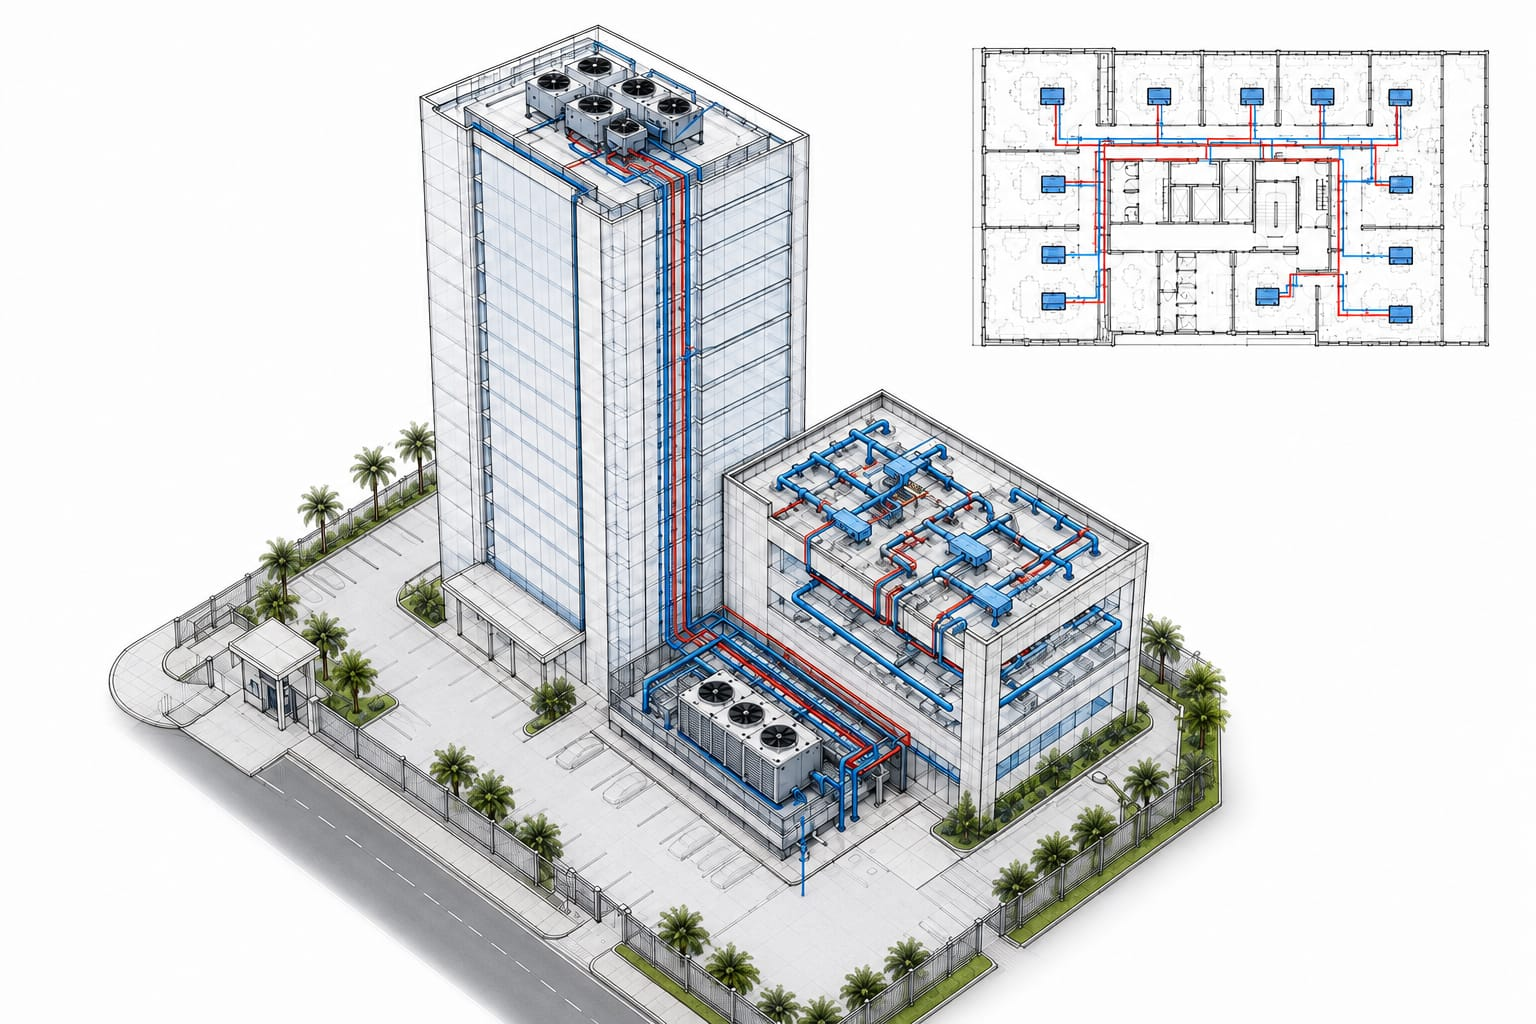
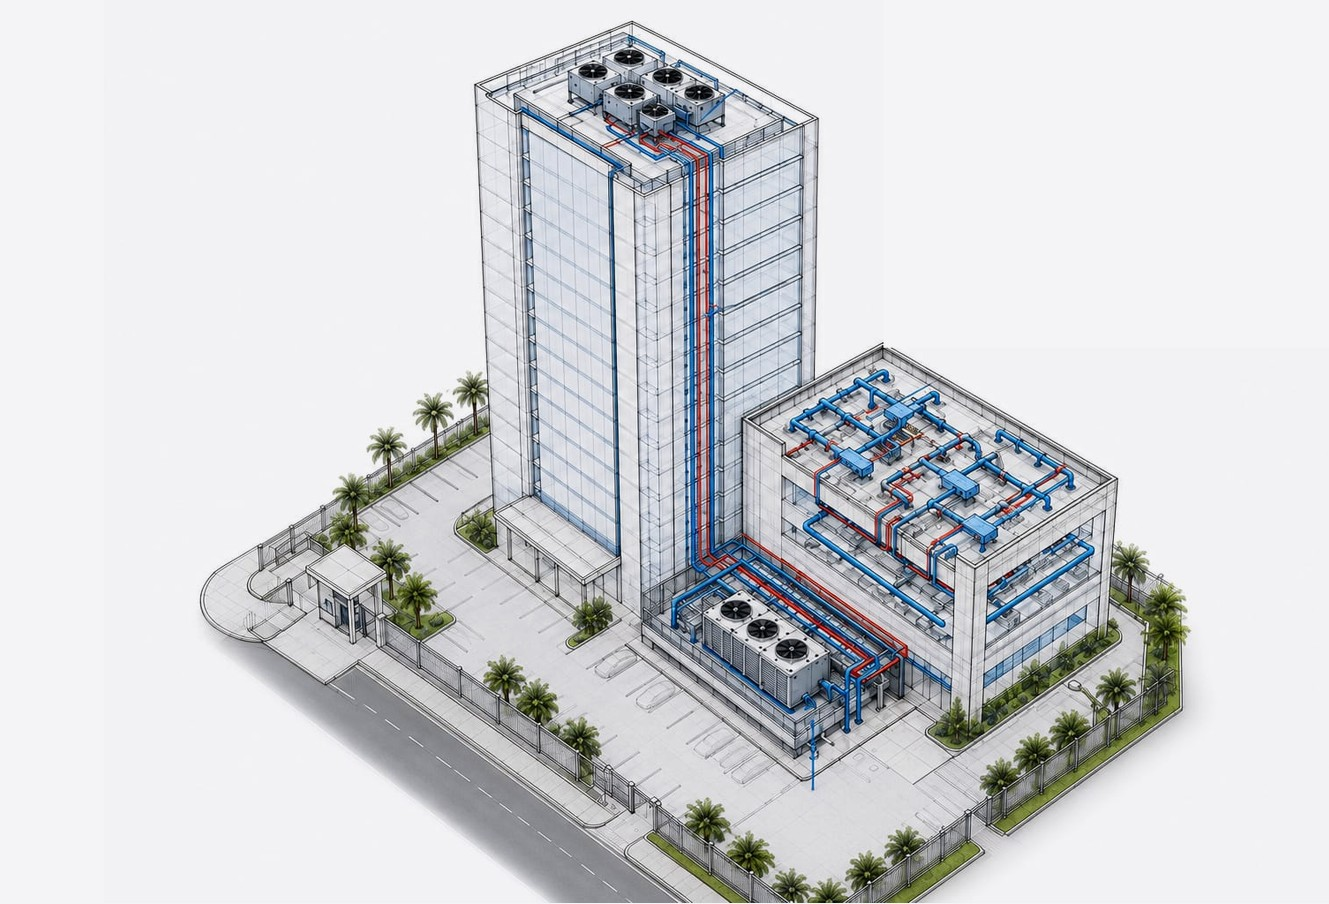
Registra as duas imagens da capa pra o divisor virar raio-X
Arrastando o divisor, o prédio dava um salto: as duas imagens vinham de
gerações diferentes, cada uma com o prédio num tamanho e numa posição do
quadro. O desenho técnico foi reescalado (0,883) e reposicionado em cima do
render — a escala e o deslocamento saíram de uma busca por correlação de
bordas entre as duas imagens, não de olho — e gravado no mesmo 1329x904 do
render. Agora a aresta da foto e a linha do desenho caem no mesmo pixel em
qualquer posição do divisor e em qualquer largura de tela, já que as duas
têm o mesmo tamanho e o mesmo object-fit:cover.

A planta baixa que ficava no canto superior direito do desenho técnico saiu:
existia só de um lado e, com o render novo, aparecia do nada ao arrastar.

O fundo do desenho (branco puro) foi puxado pro mesmo #F4F4F6 do render, os
dois lados passam a usar o mesmo degradê de baixo e o mesmo filtro de
saturação/contraste — senão o divisor marcava um degrau de tom no fundo
chapado, mesmo com o prédio casando.

diff --git a/index.html b/index.html
@@ -101,13 +101,13 @@
   .capa{position:relative;height:380px;border-radius:var(--r-lg);
     overflow:hidden;box-shadow:var(--shadow-2);--split:56%;touch-action:none;user-select:none}
   .capa__obra{position:absolute;inset:0;overflow:hidden;clip-path:inset(0 calc(100% - var(--split)) 0 0)}
-  .capa__obra img{width:100%;height:100%;object-fit:cover;filter:saturate(1.05) contrast(1.04)}
+  .capa__obra img,.capa__planta img{width:100%;height:100%;object-fit:cover;filter:saturate(1.05) contrast(1.04)}
   .capa__obra::after{content:"";position:absolute;inset:0;background:linear-gradient(0deg,rgba(6,27,54,.55),transparent 46%)}
   .capa__obra span{position:absolute;left:22px;bottom:18px;z-index:2;color:#fff;font-family:"Barlow Condensed",sans-serif;
     font-weight:700;font-size:13px;letter-spacing:.18em;text-transform:uppercase}
-  .capa__planta{position:absolute;inset:0;background:var(--azul-deep);overflow:hidden;clip-path:inset(0 0 0 var(--split))}
-  .capa__planta img{width:100%;height:100%;object-fit:cover}
-  .capa__planta::after{content:"";position:absolute;inset:0;background:linear-gradient(0deg,rgba(6,27,54,.5),transparent 50%)}
+  .capa__planta{position:absolute;inset:0;background:#F4F4F6;overflow:hidden;clip-path:inset(0 0 0 var(--split))}
+  /* mesmo degrade dos dois lados: o divisor nao pode marcar um degrau de tom */
+  .capa__planta::after{content:"";position:absolute;inset:0;background:linear-gradient(0deg,rgba(6,27,54,.55),transparent 46%)}
   .capa__tag{position:absolute;right:22px;bottom:18px;z-index:2;color:var(--frio-2);text-align:right;
     font-family:"Barlow Condensed",sans-serif;font-weight:700;font-size:13px;letter-spacing:.18em;text-transform:uppercase}
   .capa__handle{position:absolute;top:0;bottom:0;left:var(--split);transform:translateX(-50%);

diff --git a/README.md b/README.md
@@ -19,7 +19,7 @@ ver "Direções anteriores" mais abaixo.
 
 Parte da V12 B e mexe só na capa do hero:
 
-- **Divisor arrastável** entre as duas imagens da capa, em vez de mostrar as duas fixas.
+- **Divisor arrastável** entre as duas imagens da capa, em vez de mostrar as duas fixas. As duas imagens são registradas uma sobre a outra (mesmo tamanho, mesma posição e escala do prédio) e recebem o mesmo degradê e o mesmo filtro, então o divisor não marca nem degrau de tom nem salto de posição.
 - **Prédio inteiro no lugar da foto de obra**: o render isométrico mostra o sistema completo — condensadoras na cobertura, prumadas e rede dutada nos pavimentos.
 - Duas propostas pro que o divisor revela: a **planta baixa do pavimento** (Capa A, na branch `v13-capa-a`) ou o **mesmo prédio em desenho técnico** (Capa B, escolhida — é o que está na `main`).
 
@@ -89,7 +89,10 @@ Hero (texto + capa obra/planta) → cano/marquee → serviços (bloco industrial
 - `assets/bg-industrial.jpg` — foto de fundo das direções antigas (V1–V3)
 - `assets/p-dutos-galpao.jpg` — foto de fundo fixa da V12 B/C e uma das fotos do carrossel
 - `assets/p-capa-predio-render.jpg` — render isométrico do prédio com o sistema por inteiro; é a primeira imagem da capa do hero
-- `assets/p-capa-predio-tecnico.jpg` — o mesmo prédio em desenho técnico, revelado pelo divisor da capa
+- `assets/p-capa-predio-tecnico.jpg` — o mesmo prédio em desenho técnico, revelado pelo divisor da capa.
+  Está no mesmo tamanho (1329×904) e com o prédio na mesma posição e escala do render, pra o divisor
+  funcionar como raio-X: a linha do desenho cai exatamente em cima da aresta da foto. A planta baixa
+  que vinha no canto superior direito foi apagada — só existia deste lado e aparecia do nada ao arrastar.
 - `assets/p-planta-projeto.jpg` — blueprint técnico da rede dutada, usado na capa do hero até a V12 B/C
 - `assets/p-*.jpg` — demais fotos de obras, usadas no carrossel de equipamentos
 
